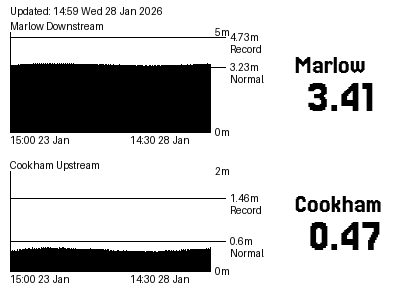
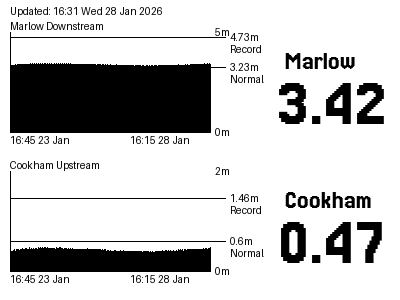
Tweaking large numbers size and layout

diff --git a/Fletcher/lambda/render_image.py b/Fletcher/lambda/render_image.py
@@ -124,7 +124,7 @@ def render_latest_png(river_doc: dict) -> bytes:
     img = Image.new("RGB", (400, 300), "white")
     draw = ImageDraw.Draw(img)
     font = ImageFont.load_default()
-    large_font = _load_large_font(48)
+    large_font = _load_large_font(70)
     station_font = _load_large_font(26)
 
     utc_time = river_doc.get("utc_time", "")
@@ -140,7 +140,7 @@ def render_latest_png(river_doc: dict) -> bytes:
     x0 = 10
     y0 = 20
     gap = 15
-    decimal_x = 330
+    decimal_x = 310
 
     if len(stations) >= 1:
         used_h = _draw_station_graph(draw, font, stations[0], x0=x0, y0=y0)
@@ -148,8 +148,8 @@ def render_latest_png(river_doc: dict) -> bytes:
         if heights_0:
             station_name_0 = str(stations[0].get("name", "")).strip()
             short_0 = (station_name_0.split() or [""])[0]
-            draw.text((decimal_x - 35, y0 + 32), short_0, fill="black", font=station_font)
-            _draw_large_height(draw, large_font, float(heights_0[-1]), decimal_x=decimal_x, y=y0 + 52)
+            draw.text((decimal_x - 25, y0 + 28), short_0, fill="black", font=station_font)
+            _draw_large_height(draw, large_font, float(heights_0[-1]), decimal_x=decimal_x, y=y0 + 48)
         y0 = y0 + used_h + gap
 
     if len(stations) >= 2:
@@ -158,8 +158,8 @@ def render_latest_png(river_doc: dict) -> bytes:
         if heights_1:
             station_name_1 = str(stations[1].get("name", "")).strip()
             short_1 = (station_name_1.split() or [""])[0]
-            draw.text((decimal_x - 35, y0 + 32), short_1, fill="black", font=station_font)
-            _draw_large_height(draw, large_font, float(heights_1[-1]), decimal_x=decimal_x, y=y0 + 52)
+            draw.text((decimal_x - 25, y0 + 28), short_1, fill="black", font=station_font)
+            _draw_large_height(draw, large_font, float(heights_1[-1]), decimal_x=decimal_x, y=y0 + 48)
 
     out = io.BytesIO()
     img.save(out, format="PNG")
